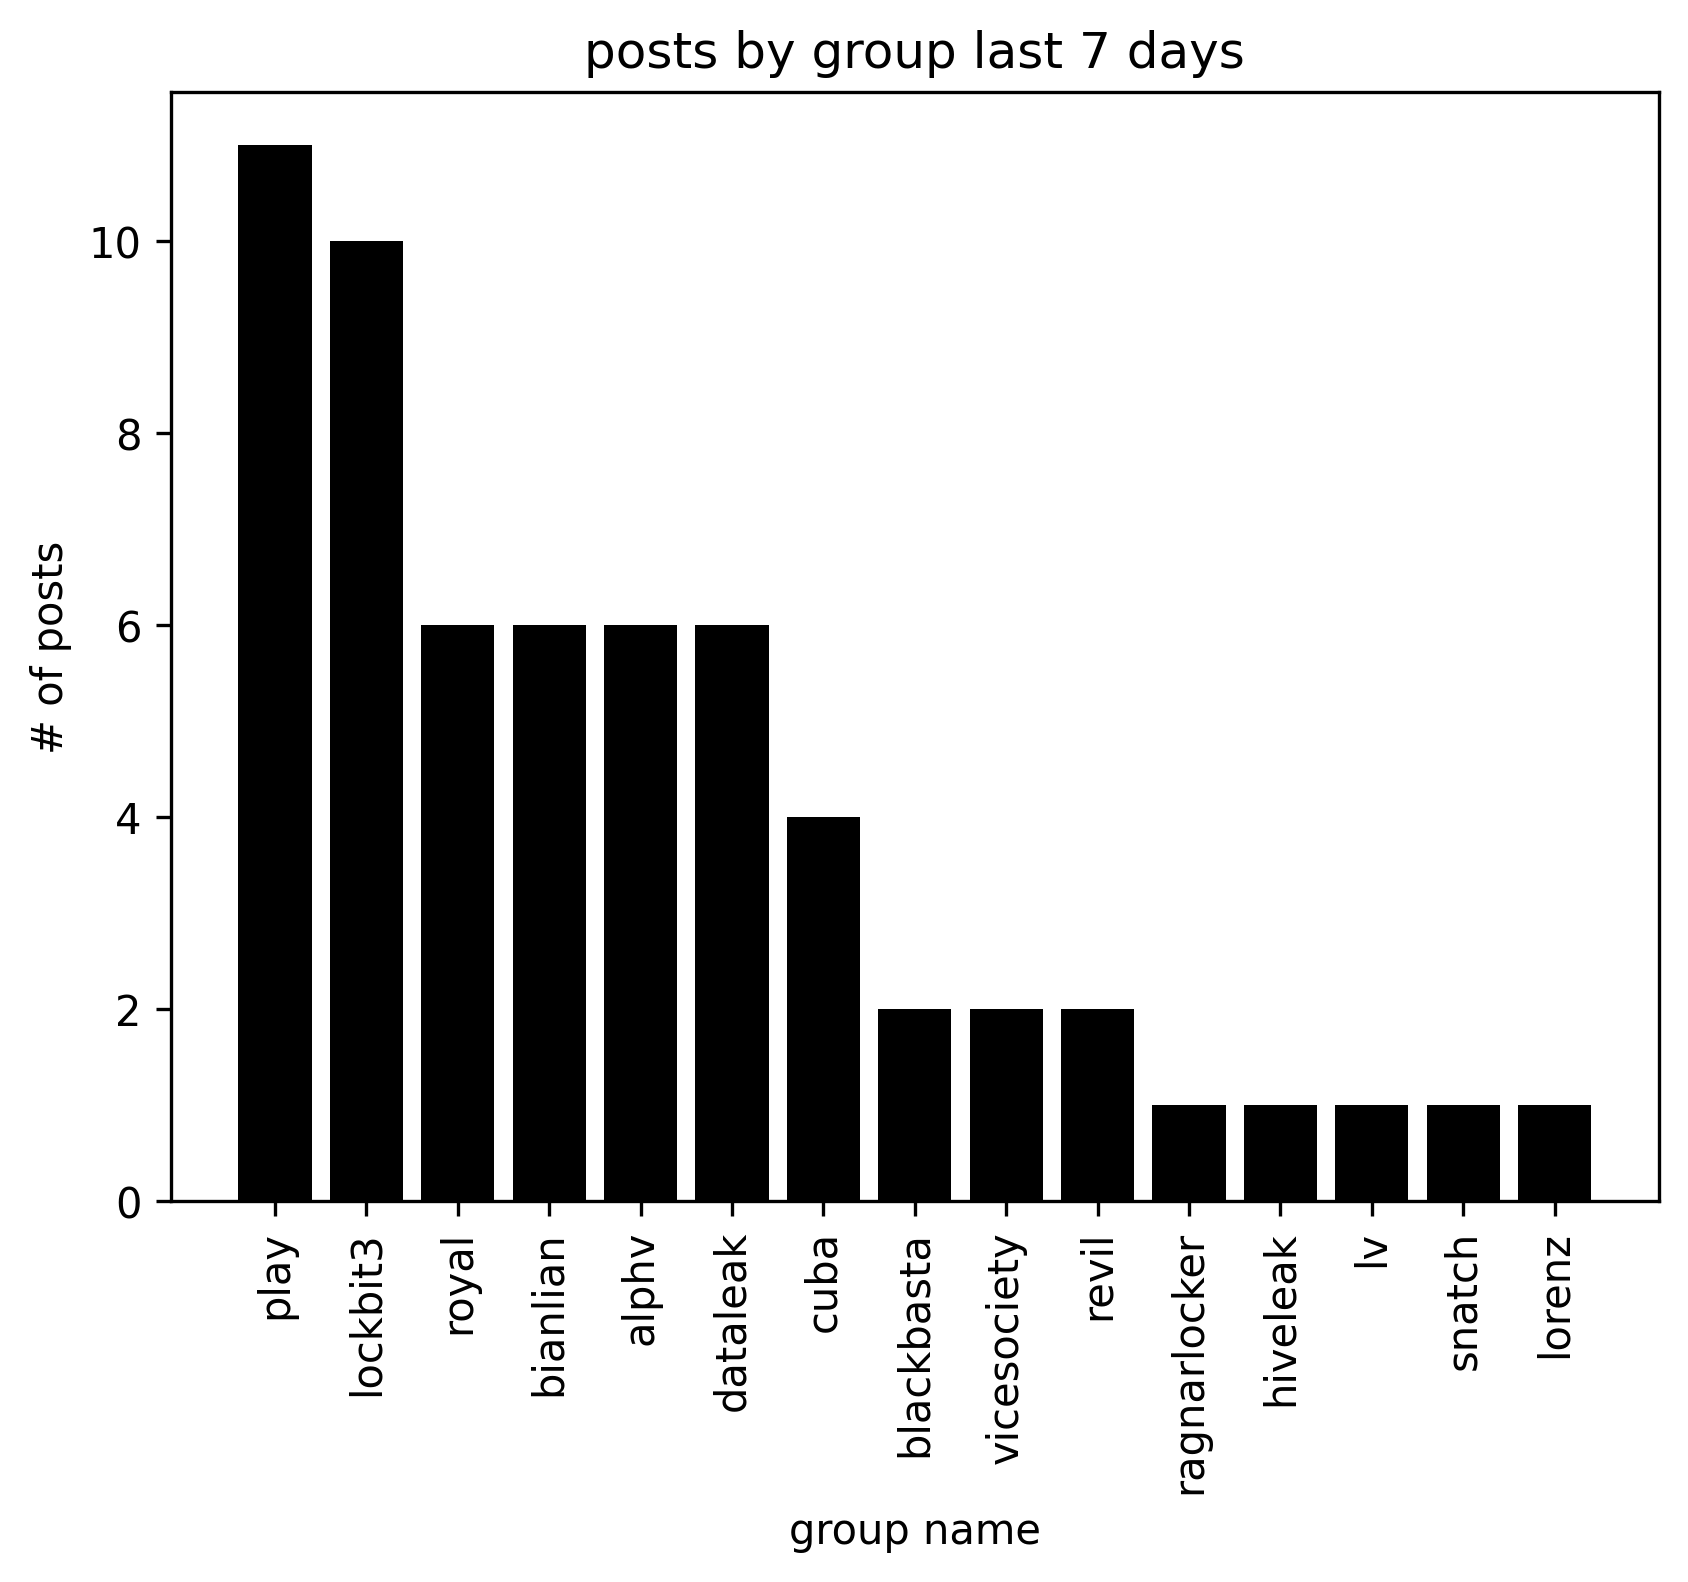
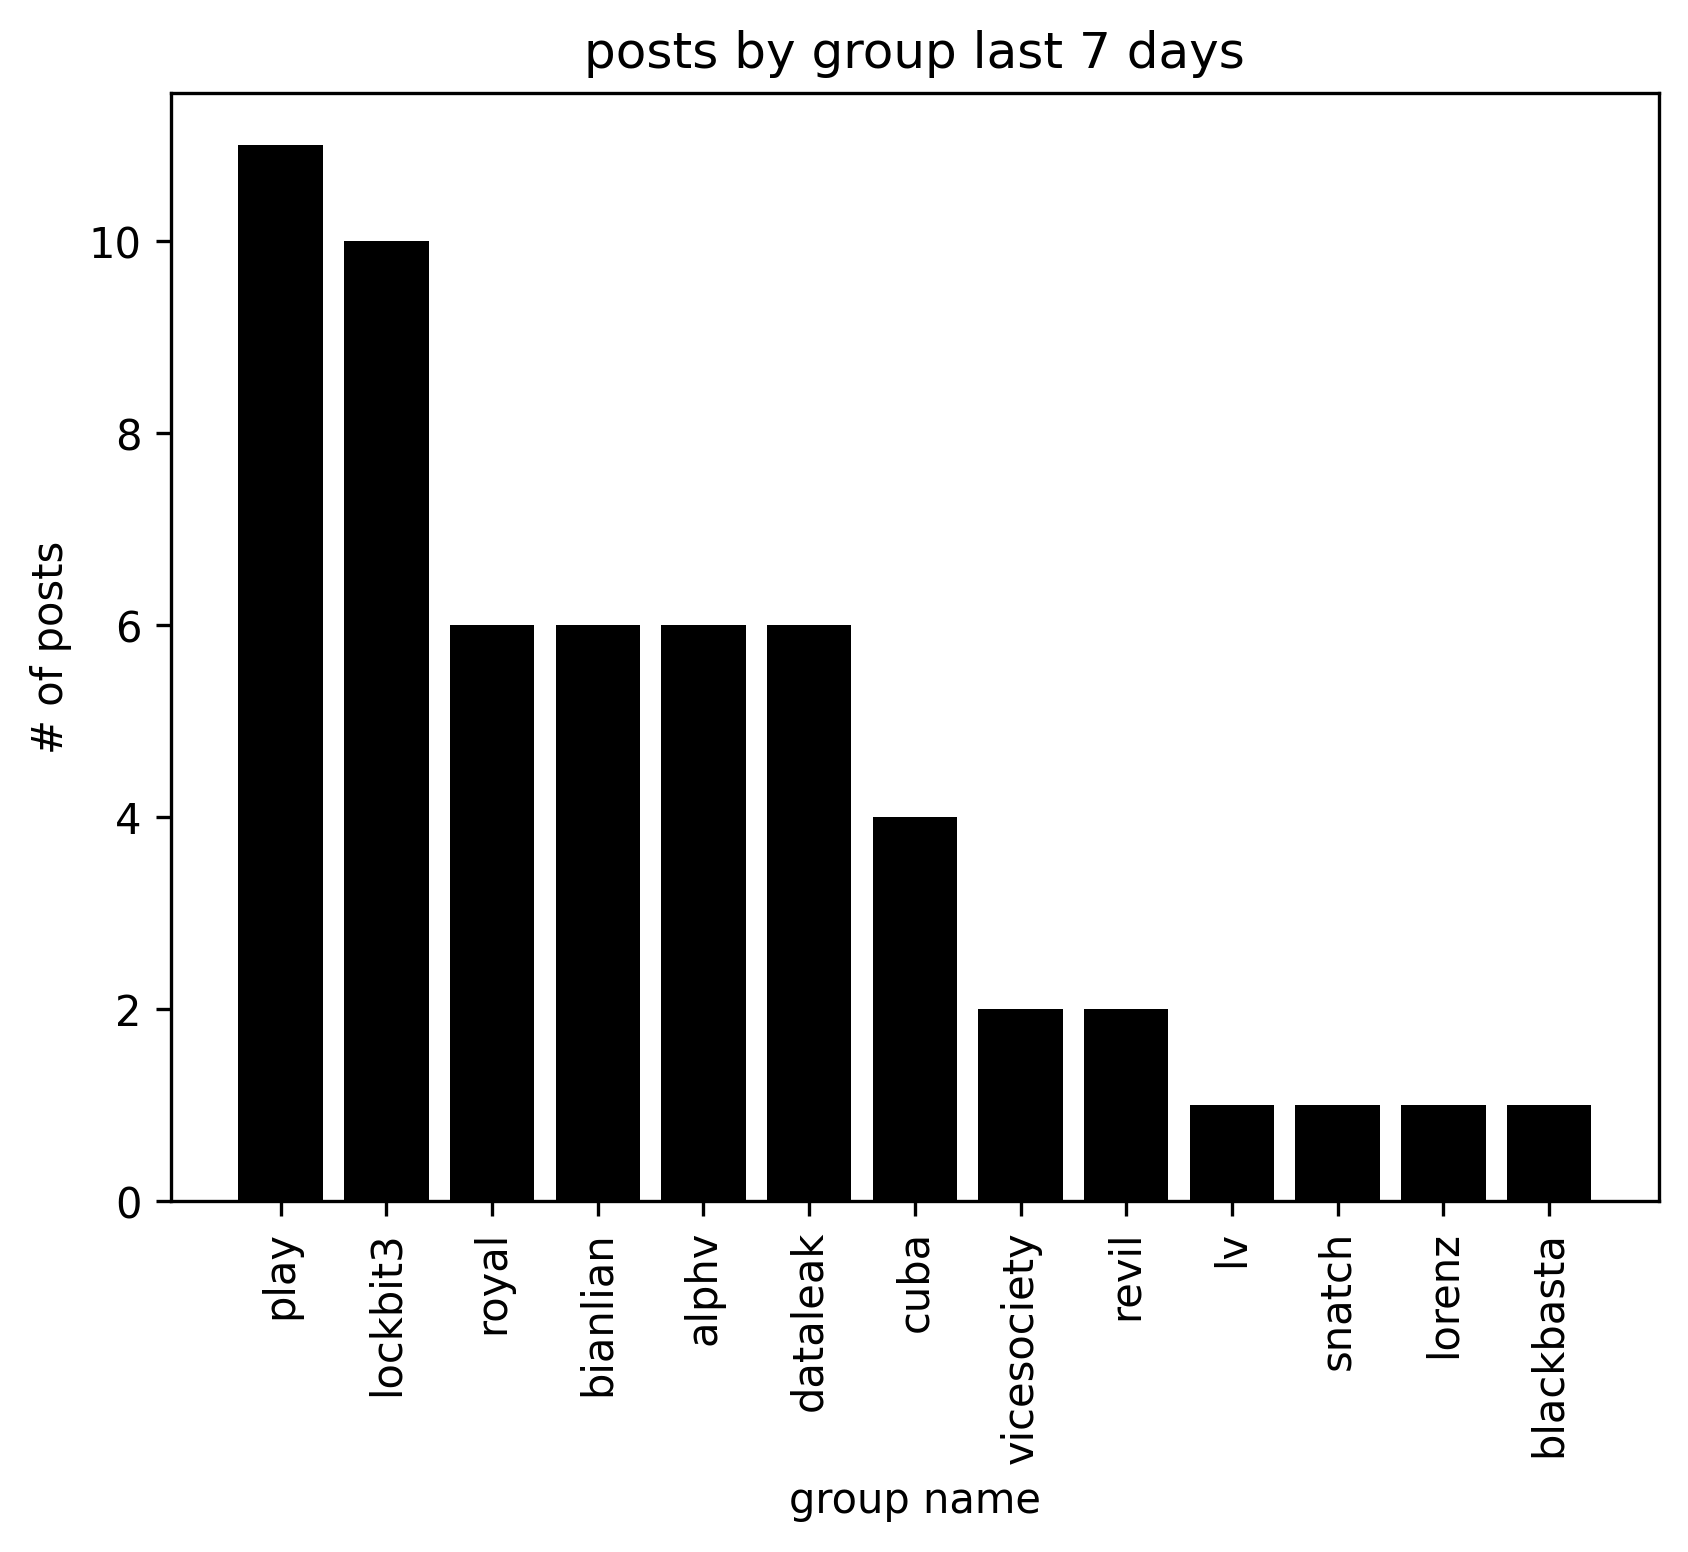
update

diff --git a/docs/INDEX.md b/docs/INDEX.md
@@ -61,6 +61,7 @@
 | [darkleakmarket](https://ransomware.live/#/profiles?id=darkleakmarket) | Dark Leak Market | 🟢 |  | darkleakyqmv62eweqwy4dnhaijg4m4dkburo73pzuqfdumcntqdokyd.onion | <a href="https://www.ransomware.live/screenshots/darkleakyqmv62eweqwy4dnhaijg4m4dkburo73pzuqfdumcntqdokyd-onion.png" target=_blank>📸</a> | 
 | [darkside](https://ransomware.live/#/profiles?id=darkside) |  | 🔴 | 2021-05-01 | darksidc3iux462n6yunevoag52ntvwp6wulaz3zirkmh4cnz6hhj7id.onion |  | 
 | [diavol](https://ransomware.live/#/profiles?id=diavol) | Chat | 🔴 | 2022-10-31 | 7ypnbv3snejqmgce4kbewwvym4cm5j6lkzf2hra2hyhtsvwjaxwipkyd.onion |  | 
+| [dataleak](https://ransomware.live/#/profiles?id=dataleak) | DataLeak | 🟢 |  | woqjumaahi662ka26jzxyx7fznbp4kg3bsjar4b52tqkxgm2pylcjlad.onion |  | 
 | [donutleaks](https://ransomware.live/#/profiles?id=donutleaks) | _D0#Nut::__chat | 🔴 | 2022-10-21 | qkbbaxiuqqcqb5nox4np4qjcniy2q6m7yeluvj7n5i5dn7pgpcwxwfid.onion |  | 
 | [donutleaks](https://ransomware.live/#/profiles?id=donutleaks) | D0N#T__::LEAKS:: | 🔴 | 2022-10-21 | sbc2zv2qnz5vubwtx3aobfpkeao6l4igjegm3xx7tk5suqhjkp5jxtqd.onion |  | 
 | [donutleaks](https://ransomware.live/#/profiles?id=donutleaks) | _d0nut.::Files_ | 🔴 | 2022-10-21 | doq32rjiuomfghm5a4lyf3lwwakt2774tkv4ppsos6ueo5mhx7662gid.onion |  | 
@@ -176,8 +177,8 @@
 | [pandora](https://ransomware.live/#/profiles?id=pandora) |  | 🔴 | 2021-05-01 | pandoraxyz.xyz |  | 
 | [pay2key](https://ransomware.live/#/profiles?id=pay2key) | Pay2Key Leak Directory! | 🔴 | 2022-03-15 | pay2key2zkg7arp3kv3cuugdaqwuesifnbofun4j6yjdw5ry7zw2asid.onion |  | 
 | [payloadbin](https://ransomware.live/#/profiles?id=payloadbin) | Payload.bin | 🔴 | 2022-08-28 | vbmisqjshn4yblehk2vbnil53tlqklxsdaztgphcilto3vdj4geao5qd.onion |  | 
-| [play](https://ransomware.live/#/profiles?id=play) | PLAY NEWS | 🔴 | 2022-12-03 | mbrlkbtq5jonaqkurjwmxftytyn2ethqvbxfu4rgjbkkknndqwae6byd.onion | <a href="https://www.ransomware.live/screenshots/mbrlkbtq5jonaqkurjwmxftytyn2ethqvbxfu4rgjbkkknndqwae6byd-onion.png" target=_blank>📸</a> | 
-| [play](https://ransomware.live/#/profiles?id=play) | PLAY NEWS | 🔴 | 2022-12-03 | k7kg3jqxang3wh7hnmaiokchk7qoebupfgoik6rha6mjpzwupwtj25yd.onion | <a href="https://www.ransomware.live/screenshots/k7kg3jqxang3wh7hnmaiokchk7qoebupfgoik6rha6mjpzwupwtj25yd-onion.png" target=_blank>📸</a> | 
+| [play](https://ransomware.live/#/profiles?id=play) | PLAY NEWS | 🟢 |  | mbrlkbtq5jonaqkurjwmxftytyn2ethqvbxfu4rgjbkkknndqwae6byd.onion | <a href="https://www.ransomware.live/screenshots/mbrlkbtq5jonaqkurjwmxftytyn2ethqvbxfu4rgjbkkknndqwae6byd-onion.png" target=_blank>📸</a> | 
+| [play](https://ransomware.live/#/profiles?id=play) | PLAY NEWS | 🟢 |  | k7kg3jqxang3wh7hnmaiokchk7qoebupfgoik6rha6mjpzwupwtj25yd.onion | <a href="https://www.ransomware.live/screenshots/k7kg3jqxang3wh7hnmaiokchk7qoebupfgoik6rha6mjpzwupwtj25yd-onion.png" target=_blank>📸</a> | 
 | [prolock](https://ransomware.live/#/profiles?id=prolock) |  | 🔴 | 2021-05-01 | msaoyrayohnp32tcgwcanhjouetb5k54aekgnwg7dcvtgtecpumrxpqd.onion |  | 
 | [projectrelic](https://ransomware.live/#/profiles?id=projectrelic) | Project Relic. Dumps, leaks, news, announcements | 🔴 | 2022-12-03 | relic5zqwemjnu4veilml6prgyedj6phs7de3udhicuq53z37klxm6qd.onion | <a href="https://www.ransomware.live/screenshots/relic5zqwemjnu4veilml6prgyedj6phs7de3udhicuq53z37klxm6qd-onion.png" target=_blank>📸</a> | 
 | [prometheus](https://ransomware.live/#/profiles?id=prometheus) |  | 🔴 | 2021-05-01 | promethw27cbrcot.onion |  | 
@@ -237,4 +238,3 @@
 | [xinof](https://ransomware.live/#/profiles?id=xinof) |  | 🔴 | 2021-05-01 | wj3b2wtj7u2bzup75tzhnso56bin6bnvsxcbwbfcuvzpc4vcixbywlid.onion |  | 
 | [yanluowang](https://ransomware.live/#/profiles?id=yanluowang) | Yanluowang | 🔴 | 2022-11-01 | jukswsxbh3jsxuddvidrjdvwuohtsy4kxg2axbppiyclomt2qciyfoad.onion |  | 
 | [zeon](https://ransomware.live/#/profiles?id=zeon) | ZEON.Recovery - Enter the key | 🟢 |  | zeonrefpbompx6rwdqa5hxgtp2cxgfmoymlli3azoanisze33pp3x3yd.onion | <a href="https://www.ransomware.live/screenshots/zeonrefpbompx6rwdqa5hxgtp2cxgfmoymlli3azoanisze33pp3x3yd-onion.png" target=_blank>📸</a> | 
-| [dataleak](https://ransomware.live/#/profiles?id=dataleak) | DataLeak | 🟢 |  | woqjumaahi662ka26jzxyx7fznbp4kg3bsjar4b52tqkxgm2pylcjlad.onion |  | 

diff --git a/docs/profiles.md b/docs/profiles.md
@@ -2800,6 +2800,21 @@ _`marketplace - not a ransomware group, reputation questionable`_
 | post | date |
 |---|---|
 
+## dataleak
+
+| title | available | version | last visit | fqdn | screen 
+|---|---|---|---|---|---|
+| DataLeak | True | 3 | 07:44 03/12/2022 | `http://woqjumaahi662ka26jzxyx7fznbp4kg3bsjar4b52tqkxgm2pylcjlad.onion` |  | 
+
+| post | date |
+|---|---|
+| `The Beacon Insurance Company Limited` | 02/12/2022 |
+| `grantweber.com` | 02/12/2022 |
+| `wiesauplast.de` | 02/12/2022 |
+| `ni*usa.com` | 02/12/2022 |
+| `rkw-group.com Disclose the compressed package password` | 02/12/2022 |
+| `nissin.com.br Disclose the compressed package password` | 02/12/2022 |
+
 ## donutleaks
 
 | title | available | version | last visit | fqdn | screen 
@@ -5621,8 +5636,8 @@ _`aka vsop`_
 
 | title | available | version | last visit | fqdn | screen 
 |---|---|---|---|---|---|
-| PLAY NEWS | False | 3 | 04:10 03/12/2022 | `http://mbrlkbtq5jonaqkurjwmxftytyn2ethqvbxfu4rgjbkkknndqwae6byd.onion` | <a href="https://www.ransomware.live/screenshots/mbrlkbtq5jonaqkurjwmxftytyn2ethqvbxfu4rgjbkkknndqwae6byd-onion.png" target=_blank>📸</a> | 
-| PLAY NEWS | False | 3 | 04:10 03/12/2022 | `http://k7kg3jqxang3wh7hnmaiokchk7qoebupfgoik6rha6mjpzwupwtj25yd.onion` | <a href="https://www.ransomware.live/screenshots/k7kg3jqxang3wh7hnmaiokchk7qoebupfgoik6rha6mjpzwupwtj25yd-onion.png" target=_blank>📸</a> | 
+| PLAY NEWS | True | 3 | 04:10 03/12/2022 | `http://mbrlkbtq5jonaqkurjwmxftytyn2ethqvbxfu4rgjbkkknndqwae6byd.onion` | <a href="https://www.ransomware.live/screenshots/mbrlkbtq5jonaqkurjwmxftytyn2ethqvbxfu4rgjbkkknndqwae6byd-onion.png" target=_blank>📸</a> | 
+| PLAY NEWS | True | 3 | 04:10 03/12/2022 | `http://k7kg3jqxang3wh7hnmaiokchk7qoebupfgoik6rha6mjpzwupwtj25yd.onion` | <a href="https://www.ransomware.live/screenshots/k7kg3jqxang3wh7hnmaiokchk7qoebupfgoik6rha6mjpzwupwtj25yd-onion.png" target=_blank>📸</a> | 
 
 | post | date |
 |---|---|
@@ -7123,20 +7138,5 @@ _`aka fonix`_
 | post | date |
 |---|---|
 
-## dataleak
 
-| title | available | version | last visit | fqdn | screen 
-|---|---|---|---|---|---|
-| DataLeak | True | 3 | 07:44 03/12/2022 | `http://woqjumaahi662ka26jzxyx7fznbp4kg3bsjar4b52tqkxgm2pylcjlad.onion` |  | 
-
-| post | date |
-|---|---|
-| `The Beacon Insurance Company Limited` | 02/12/2022 |
-| `grantweber.com` | 02/12/2022 |
-| `wiesauplast.de` | 02/12/2022 |
-| `ni*usa.com` | 02/12/2022 |
-| `rkw-group.com Disclose the compressed package password` | 02/12/2022 |
-| `nissin.com.br Disclose the compressed package password` | 02/12/2022 |
-
-
-Last update : _Saturday 03/12/2022 07.44 (UTC)_
+Last update : _Saturday 03/12/2022 10.22 (UTC)_

diff --git a/docs/README.md b/docs/README.md
@@ -2,12 +2,12 @@
 ## 📈 Ransomware.live Statistics
 _december 3rd, 2022_
 
-currently tracking `130` groups across `236` relays & mirrors - _`83` currently online_ 📡
+currently tracking `130` groups across `236` relays & mirrors - _`85` currently online_ 📡
 
 Check the recent ransomware posts [here](https://www.ransomware.live/#/recentposts)
 
 
-⏲ there have been `16` posts within the `last 24 hours`
+⏲ there have been `10` posts within the `last 24 hours`
 
 🕓 there have been `24` posts within the `month of december`
 
@@ -15,7 +15,7 @@ Check the recent ransomware posts [here](https://www.ransomware.live/#/recentpos
 
 🏚 there have been `3128` posts since the `1st January 2022`
 
-📸 there is `105` ransomware goup hosts screenshots
+📸 there is `106` ransomware goup hosts screenshots
 
 🚀 there have been `2252` posts `last year`
 
@@ -29,5 +29,5 @@ _`20` sites using v2 onion services are no longer indexed - [support.torproject.
 
 
 
-Last update : _Saturday 03/12/2022 07.44 (UTC)_
+Last update : _Saturday 03/12/2022 10.22 (UTC)_
 

diff --git a/docs/recentposts.md b/docs/recentposts.md
@@ -205,4 +205,4 @@ _last `200` posts_
 | 2022-11-09 | [`http://www.zender.de`](https://google.com/search?q=http%3A%2F%2Fwww.zender.de) | [royal](https://ransomware.live/#/profiles?id=royal) |
 | 2022-11-09 | [`LAW OFFICES OF JOHN T ORCUTT WAS HACKED. MORE THEN 2TB SENSETIVE DATA LEAKED.`](https://google.com/search?q=LAW+OFFICES+OF+JOHN+T+ORCUTT+WAS+HACKED.+MORE+THEN+2TB+SENSETIVE+DATA+LEAKED.) | [lv](https://ransomware.live/#/profiles?id=lv) |
 
-Last update : _Saturday 03/12/2022 07.44 (UTC)_
+Last update : _Saturday 03/12/2022 10.22 (UTC)_
